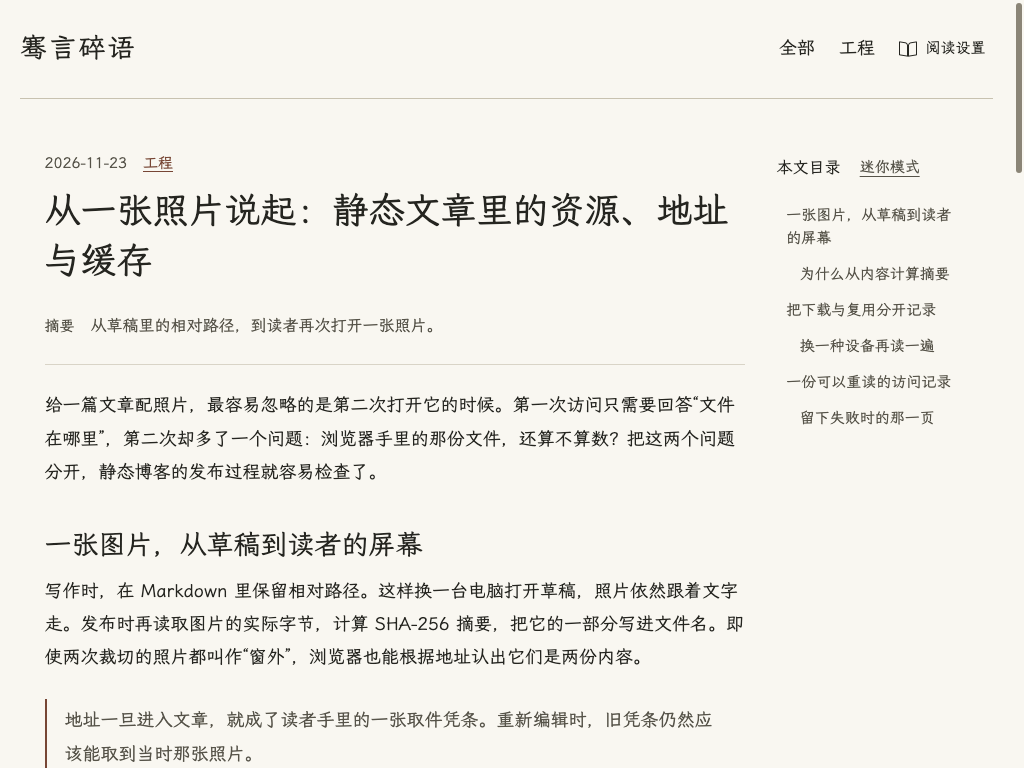
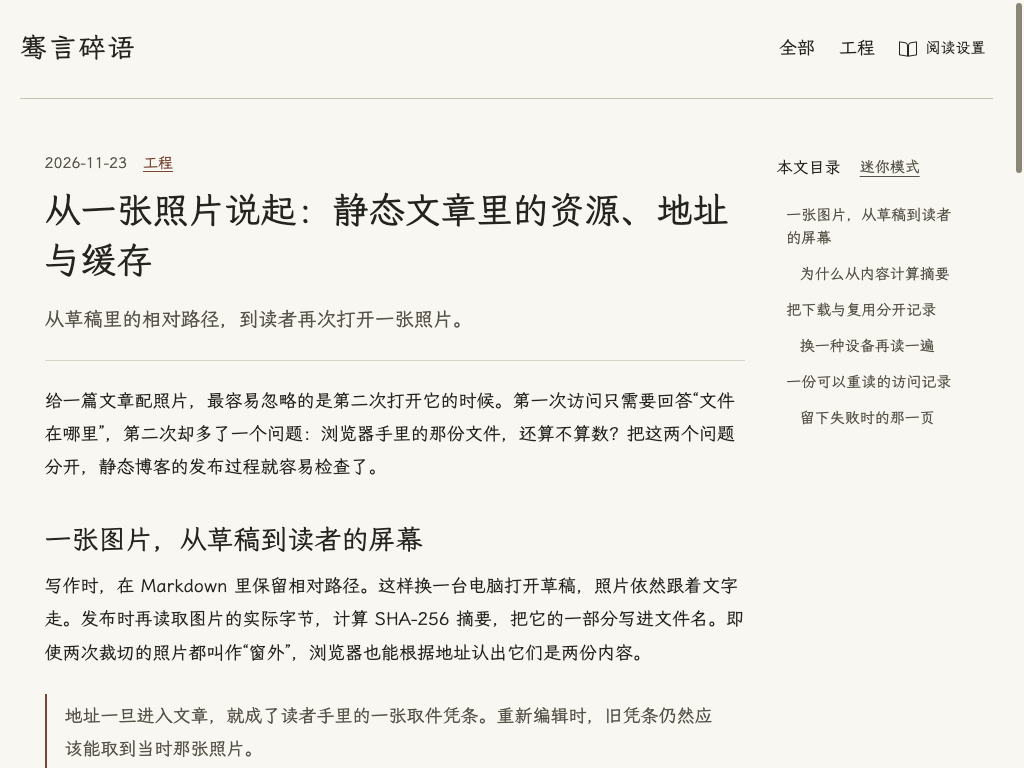
refactor: set article summaries as standfirsts and tags as keywords

diff --git a/docs/m4.2/README.md b/docs/m4.2/README.md
@@ -8,7 +8,7 @@
 
 字标只保留「骞言碎语」。页首基线标出站点导航的结束位置。跨年时用浅线分组，同一年内，文本列表在发布日期变化时沿篇目列画线，同日文章靠留白分开。页脚列出当年版权、站名、作者的 GitHub 个人主页、分类索引与 RSS。
 
-文章标题在列表、卡片和详情页均自然换行。详情页先列日期与可选分类，再排题名，直接落在页面纸色上，与正文左边缘对齐。题名下方以小字并列排出「摘要」和摘要文字，续行对齐文字起点。有标签时再添一行。篇首末尾的一道细线标出正文阅读区的起点。
+文章标题在列表、卡片和详情页均自然换行。详情页先列日期与可选分类，再排题名，直接落在页面纸色上，与正文左边缘对齐。摘要紧随题名，以次级墨色排成一句导语，字号略大于正文，桌面行宽最多 32em。标签用 15px 强调色小字另排一行，词间留白，空间不足时逐项换行。篇首末尾的一道细线标出正文阅读区的起点。
 
 两侧导航用文字颜色与下划线提示当前项。完整目录跟踪 H2/H3，迷你模式显示正文进度，点刻度回到完整目录时会把当前章节移入视野。短表格填满正文宽度，超宽表格保留列宽，在可键盘聚焦的容器里横向浏览。表格、代码、目录和页面滚动条均采用细滑块与透明轨道。
 
